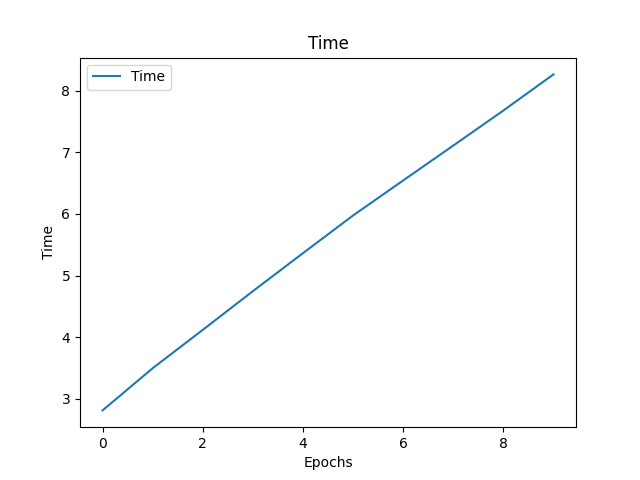
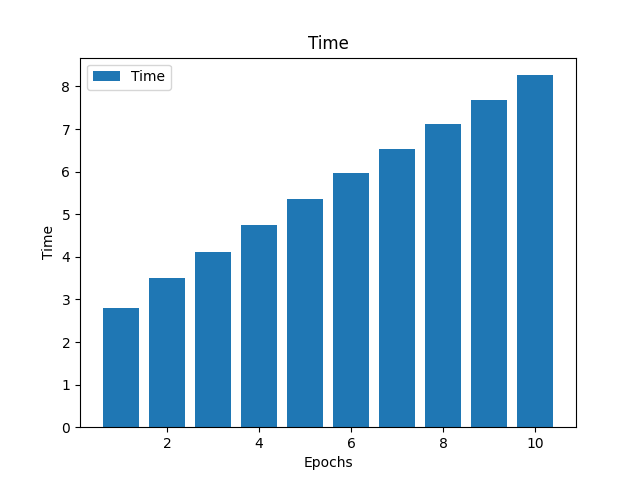
Bar plot

diff --git a/plot.py b/plot.py
@@ -15,7 +15,8 @@ def main(file, device):
     plt.savefig(f'plots/metrics_{device}.png')
     plt.clf()
     
-    plt.plot(data['time'], label='Time')
+    epochs = range(1, len(data['time']) + 1)
+    plt.bar(x=epochs, height=data['time'], label='Time')
     plt.xlabel('Epochs')
     plt.ylabel('Time')
     plt.title('Time')
